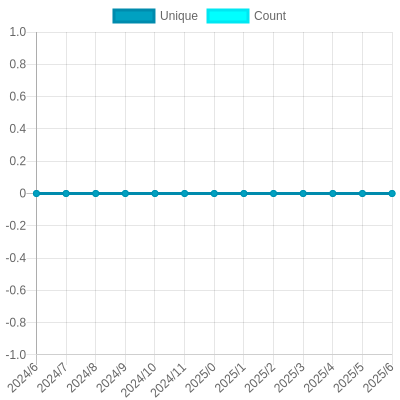
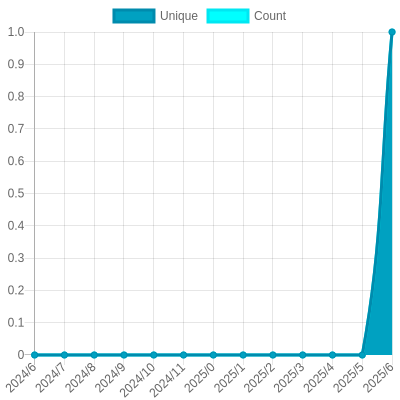
Update views

diff --git a/readme/827259573/year.md b/readme/827259573/year.md
@@ -23,10 +23,10 @@
 			<code>2024/7/1</code>
 		</td>
 		<td>
-			<code>0</code>
+			<code>1</code>
 		</td>
 		<td>
-			<code>0</code>
+			<code>1</code>
 		</td>
 	</tr>
 	<tr>
@@ -164,7 +164,7 @@
 </table>
 
 </details>
-<small><i>Last updated on 2024/7/25 6:19 AM UTC</i></small>
+<small><i>Last updated on 2024/7/25 12:24 PM UTC</i></small>
 
 ## ✂Copy and 📋 Paste
 ### SVG Badge

diff --git a/README.md b/README.md
@@ -357,7 +357,7 @@ The project created and maintained by [gayanvoice](https://github.com/gayanvoice
 	</tr>
 </table>
 
-<small><i>Last updated on 2024/7/25 6:21 AM UTC</i></small>
+<small><i>Last updated on 2024/7/25 12:27 PM UTC</i></small>
 
 ## ✂Copy and 📋 Paste
 ### Total Views Badge

diff --git a/readme/698104324/year.md b/readme/698104324/year.md
@@ -164,7 +164,7 @@
 </table>
 
 </details>
-<small><i>Last updated on 2024/7/25 6:20 AM UTC</i></small>
+<small><i>Last updated on 2024/7/25 12:26 PM UTC</i></small>
 
 ## ✂Copy and 📋 Paste
 ### SVG Badge

diff --git a/readme/698130765/year.md b/readme/698130765/year.md
@@ -164,7 +164,7 @@
 </table>
 
 </details>
-<small><i>Last updated on 2024/7/25 6:18 AM UTC</i></small>
+<small><i>Last updated on 2024/7/25 12:24 PM UTC</i></small>
 
 ## ✂Copy and 📋 Paste
 ### SVG Badge

diff --git a/readme/698182249/year.md b/readme/698182249/year.md
@@ -164,7 +164,7 @@
 </table>
 
 </details>
-<small><i>Last updated on 2024/7/25 6:20 AM UTC</i></small>
+<small><i>Last updated on 2024/7/25 12:25 PM UTC</i></small>
 
 ## ✂Copy and 📋 Paste
 ### SVG Badge

diff --git a/readme/741956451/year.md b/readme/741956451/year.md
@@ -164,7 +164,7 @@
 </table>
 
 </details>
-<small><i>Last updated on 2024/7/25 6:20 AM UTC</i></small>
+<small><i>Last updated on 2024/7/25 12:25 PM UTC</i></small>
 
 ## ✂Copy and 📋 Paste
 ### SVG Badge

diff --git a/readme/750768610/year.md b/readme/750768610/year.md
@@ -164,7 +164,7 @@
 </table>
 
 </details>
-<small><i>Last updated on 2024/7/25 6:21 AM UTC</i></small>
+<small><i>Last updated on 2024/7/25 12:26 PM UTC</i></small>
 
 ## ✂Copy and 📋 Paste
 ### SVG Badge

diff --git a/readme/783743308/year.md b/readme/783743308/year.md
@@ -164,7 +164,7 @@
 </table>
 
 </details>
-<small><i>Last updated on 2024/7/25 6:21 AM UTC</i></small>
+<small><i>Last updated on 2024/7/25 12:26 PM UTC</i></small>
 
 ## ✂Copy and 📋 Paste
 ### SVG Badge

diff --git a/readme/787331288/year.md b/readme/787331288/year.md
@@ -164,7 +164,7 @@
 </table>
 
 </details>
-<small><i>Last updated on 2024/7/25 6:21 AM UTC</i></small>
+<small><i>Last updated on 2024/7/25 12:26 PM UTC</i></small>
 
 ## ✂Copy and 📋 Paste
 ### SVG Badge

diff --git a/readme/787355501/year.md b/readme/787355501/year.md
@@ -164,7 +164,7 @@
 </table>
 
 </details>
-<small><i>Last updated on 2024/7/25 6:20 AM UTC</i></small>
+<small><i>Last updated on 2024/7/25 12:26 PM UTC</i></small>
 
 ## ✂Copy and 📋 Paste
 ### SVG Badge

diff --git a/readme/796346104/year.md b/readme/796346104/year.md
@@ -164,7 +164,7 @@
 </table>
 
 </details>
-<small><i>Last updated on 2024/7/25 6:20 AM UTC</i></small>
+<small><i>Last updated on 2024/7/25 12:26 PM UTC</i></small>
 
 ## ✂Copy and 📋 Paste
 ### SVG Badge

diff --git a/readme/814687995/year.md b/readme/814687995/year.md
@@ -164,7 +164,7 @@
 </table>
 
 </details>
-<small><i>Last updated on 2024/7/25 6:20 AM UTC</i></small>
+<small><i>Last updated on 2024/7/25 12:26 PM UTC</i></small>
 
 ## ✂Copy and 📋 Paste
 ### SVG Badge
